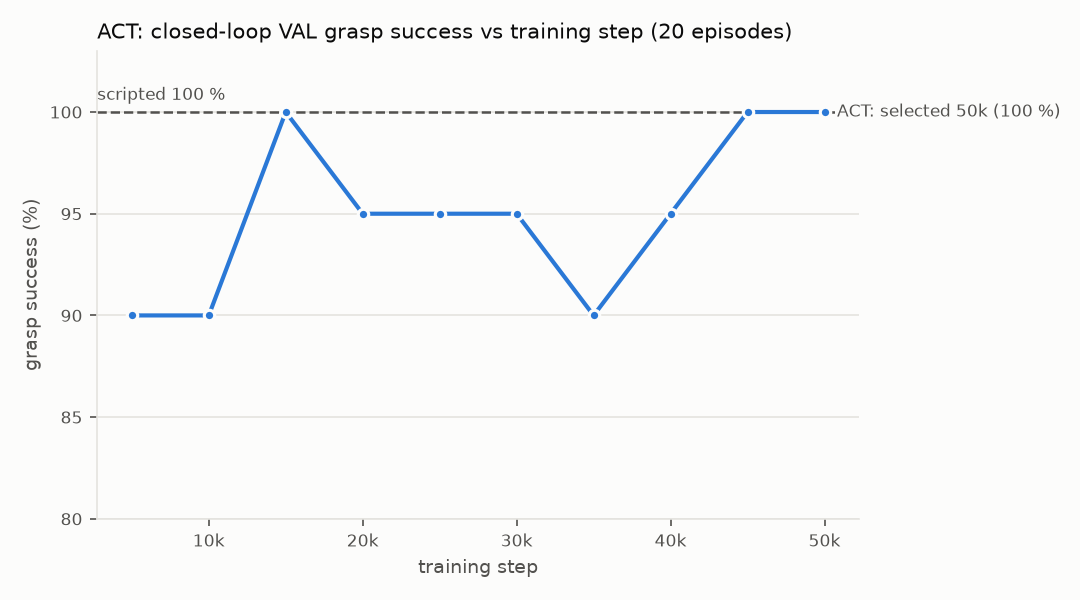
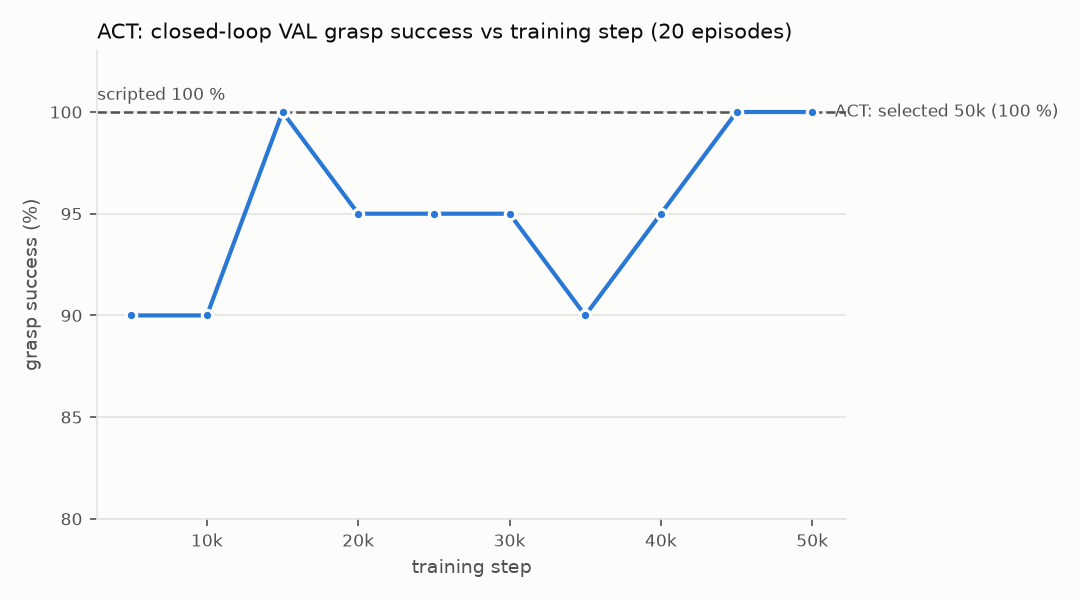
[bonus] S6/S7 done: RESULTS.md (3x4 tables, detection table, ablations incl. image vs state-only, curves, 6 videos) + BONUS_SECTION.md
Claude-Session: https://claude.ai/code/session_01Fedu7p1zPxPojT8yiSSuHD

diff --git a/scripts/bonus/make_figs.py b/scripts/bonus/make_figs.py
@@ -40,22 +40,31 @@ def main(argv=None) -> int:
     fig, ax = plt.subplots(figsize=(7.2, 4.0), dpi=150)
     fig.patch.set_facecolor(SURF)
     ax.set_facecolor(SURF)
-    lows = []
+    lows, ends = [], []
     for i, (run, lab) in enumerate(zip(args.runs, labels)):
         x, y = load(run)
         lows.append(min(y))
         c = SERIES[i % len(SERIES)]
         ax.plot(x, y, color=c, lw=2, marker="o", ms=5, mec=SURF, mew=1.5, label=lab, zorder=3)
         best = max(range(len(y)), key=lambda k: (y[k], x[k]))  # tie -> latest step (selection rule)
-        ax.annotate(f"{lab}: selected {x[best] // 1000}k ({y[best]:.0f} %)", (x[-1], y[-1]), xytext=(6, 0),
-                    textcoords="offset points", va="center", fontsize=8, color=INK2,
-                    bbox=dict(boxstyle="square,pad=0.15", fc=SURF, ec="none"))
+        ends.append([y[-1], f"{lab}: selected {x[best] // 1000}k ({y[best]:.0f} %)", x[-1], y[-1]])
     if args.scripted_val is not None:
         ax.axhline(args.scripted_val, color=INK2, lw=1.2, ls="--", zorder=2)
         ax.text(ax.get_xlim()[0], args.scripted_val + 0.6, f"scripted {args.scripted_val:.0f} %", fontsize=8,
                 color=INK2)
     lo = min(lows + ([args.scripted_val] if args.scripted_val is not None else []))
-    ax.set_ylim(max(0, (int(lo) // 10) * 10 - 10), 103)  # line chart: axis may start above 0
+    ymin = max(0, (int(lo) // 10) * 10 - 10)
+    ax.set_ylim(ymin, 103)  # line chart: axis may start above 0
+    # direct end labels at the right edge, nudged apart so equal end values do not collide
+    xmax = max(e[2] for e in ends)
+    gap = 0.05 * (103 - ymin)
+    ends.sort(key=lambda e: -e[0])
+    for k in range(1, len(ends)):
+        ends[k][0] = min(ends[k][0], ends[k - 1][0] - gap)
+    for ly, text, ex, ey in ends:
+        ax.annotate(text, (ex, ey), xytext=(xmax + 0.03 * xmax, ly), textcoords="data", va="center", fontsize=8,
+                    color=INK2, annotation_clip=False,
+                    arrowprops=dict(arrowstyle="-", color=GRID, lw=0.8) if (ex != xmax or abs(ly - ey) > 0.1) else None)
     ax.set_xlabel("training step", color=INK2, fontsize=9)
     ax.set_ylabel("grasp success (%)", color=INK2, fontsize=9)
     ax.set_title(args.title, color=INK, fontsize=10, loc="left")

diff --git a/scripts/bonus/collect_grasp_demos.py b/scripts/bonus/collect_grasp_demos.py
@@ -195,7 +195,12 @@ def run_episode(world, env, i: int, seed: int, with_image=True, classes=("stone"
     res = skills.grasp(rec, target)
     ok = env.is_attached() and world.attached_body_name() == cls
     if ok:
-        env.set_arm_target(env.get_ee_pos() + np.array([0.0, 0.0, LIFT_M]))
+        for lift in (LIFT_M, LIFT_M / 2):  # the bottle's taller grasp point can make the 10 cm lift infeasible
+            try:
+                env.set_arm_target(env.get_ee_pos() + np.array([0.0, 0.0, lift]))
+                break
+            except ValueError:
+                continue
         rec.step(int(round(LIFT_S / world.timestep)))
     meta.update(success=bool(ok), reason=res.error_code.value if not ok else "attached",
                 wrong_object=bool(env.is_attached() and not ok),
@@ -231,7 +236,11 @@ def _worker(args):
         _W["world"] = SimWorld()
         _W["env"] = RobotEnv(_W["world"])
     path = out / f"ep_{i:05d}.h5"
-    ep = run_episode(_W["world"], _W["env"], i, seed, with_image, classes)
+    try:
+        ep = run_episode(_W["world"], _W["env"], i, seed, with_image, classes)
+    except Exception as exc:  # noqa: BLE001 - one bad episode must not kill the pool
+        return {"episode": i, "seed": [seed, i], "class": "?", "distractor": False, "success": False,
+                "reason": f"exception:{type(exc).__name__}", "n_steps": 0}
     if ep["success"]:
         save_h5(path, ep)
     return {k: v for k, v in ep.items() if k != "rows"}

diff --git a/docs/bonus/BONUS_SECTION.md b/docs/bonus/BONUS_SECTION.md
@@ -2,35 +2,34 @@
 
 ## Setup
 
-Can a learned visuomotor policy replace the scripted grasp primitive without touching the rest of the system? We
-trained two standard imitation-learning policies with lerobot 0.6.1: **ACT** (action chunking with transformers)
-and **Diffusion Policy (DP)**. We placed each one behind the existing grasp interface: `LearnedGraspSkill(policy, ckpt)(env, pos)`
-has the same call as `skills.grasp(env, pos)`, and the executor picks it through `EE4705_GRASP_POLICY`. From the
-post-APPROACH pose the policy runs at 10 Hz for at most 15 s. It observes the arm joints, the target position in the
-base frame and the head camera, and outputs the next arm joint setpoint. It then calls `try_attach_near_ee()` once,
-as the script does. Everything after that is unchanged: the executor's lift check, the planner, the verification, and
-the evaluator's oracle. All experiments use ground-truth perception and the rule planner, so they cost 0 API calls.
+Can a learned visuomotor policy replace the scripted grasp without touching the rest of the system? We trained
+**ACT** and **Diffusion Policy (DP)** with lerobot 0.6.1 and put each one behind the existing grasp interface:
+`LearnedGraspSkill(policy, ckpt)(env, pos)` has the same call as `skills.grasp(env, pos)`, and the executor selects
+it with `EE4705_GRASP_POLICY`. From the post-APPROACH pose the policy runs at 10 Hz for at most 15 s. It observes the
+arm joints, the target position in the base frame and the head camera, and outputs the next arm joint setpoint. It
+then calls `try_attach_near_ee()` once, exactly as the script does. The executor's lift check, the planner, the
+verification and the evaluator are unchanged. Perception is ground truth and the planner is the rule planner, so
+every experiment costs 0 API calls.
 
 ## Data
 
-The expert is the scripted APPROACH→REACH→GRASP pipeline. Each demonstration starts at the post-APPROACH pose (the
-parking pose perturbed by ±3 cm and ±5°) and ends 0.5 s into the lift. The target is a stone or a cube within ±10 cm
-of its nominal pose, at any yaw, with one distractor in half of the scenes. The bottle is held out as an
-out-of-distribution object. The expert succeeded in 99.5 % of 2,030 attempts. We kept 2,000 successful episodes
-(about 28 steps each), converted them to a LeRobotDataset with 224×224 head images, a 10-D state and a 7-D
-joint-target action, and split them 90/10 by episode.
+The expert is the scripted APPROACH→REACH→GRASP pipeline. Each episode runs from the post-APPROACH pose (parking
+perturbed by ±3 cm and ±5°) to 0.5 s into the lift. The target is a stone or a cube within ±10 cm of its nominal
+pose, at any yaw, with a distractor in half of the scenes. The bottle is held out as the OOD object. The expert
+succeeded in 99.5 % of 2,030 attempts. We kept 2,000 episodes (about 28 steps each) as a LeRobotDataset: 224² head
+image, 10-D state, 7-D joint-target action, split 90/10 by episode.
 
 ## Policies
 
 ACT: chunk 50, 25 executed steps, ResNet-18, 50k steps. DP: horizon 32, 8 executed steps, 2 observation steps,
-DDIM with 10 inference steps, 60k steps. Both use lerobot's architectures and presets. Only the data loader was
-replaced, because `lerobot-train` was data-bound at 3 it/s; our memmap loader of the same episodes runs at 13 it/s.
-We scored every 5k-step checkpoint on 20 closed-loop validation episodes and kept the best: ACT at 50k and DP at
-35k, both 20/20. Neither needed the fallback ladder (learning-rate change, state-only, shorter chunks).
+DDIM with 10 steps, 60k steps. We kept lerobot's architectures and presets and replaced only the data loader:
+`lerobot-train` was data-bound at 3 it/s, and a memmap of the same episodes runs at 13 it/s. Scoring each 5k
+checkpoint on 20 closed-loop validation episodes selected ACT at 50k and DP at 35k, both 20/20. Neither needed the
+fallback ladder.
 
 ## Results
 
-The full-executor evaluation runs 30 episodes per cell, with identical scenes for every policy:
+Full executor, 30 episodes per cell, identical scenes for every policy:
 
 | Grasp success | C1 in-dist. | C2 ±20 cm | C3 bottle (OOD) | C4 distractor < 3 cm | false claims |
 |---|---|---|---|---|---|
@@ -38,39 +37,34 @@ The full-executor evaluation runs 30 episodes per cell, with identical scenes fo
 | ACT | 29/30 | 26/30 | 0/30 | 30/30 | 0 |
 | Diffusion Policy | 29/30 | 27/30 | 0/30 | 30/30 | 0 |
 
-On C1 every policy loses the same trial, which never reaches GRASP. At the skill level (one grasp call from the
-post-APPROACH state) all three score 30/30 on C1 with similar time-to-attach: 3.2 s for both learned policies against
-3.0 s for the script. Neither the ACT chunk length (10/25/50 executed steps) nor the DP sampler (DDIM 5/10/50,
-DDPM 50) changed C1 success. Longer ACT chunks grasp faster (2.7 s), and 5 DDIM steps are enough.
+The shared C1 miss never reaches GRASP. At skill level, one grasp call from the post-APPROACH state gives all three
+30/30 on C1, with time-to-attach of 3.2 s (learned) against 3.0 s (script). The ACT chunk length and the DP sampler
+(DDIM 5/10/50, DDPM 50) do not change C1 success. The image matters for ACT: state-only ACT drops to 26/30 at skill
+level. It does not matter for DP: state-only DP stays at 30/30 and is faster.
 
 **Where learned matches the script:** in-distribution positions, and a distractor 0.3–3 cm from the target (0 wrong
-objects out of 60 episodes). The target position in the state tells the policy which object to grasp.
-**Where it loses:** positions beyond the ±10 cm training range (3–4 extra misses, clustered on the same far layouts
-for both policies), and above all the unseen bottle. The learned policies reach for stone/cube height, 3.5 cm below
-the bottle's centre, and never attach. The script simply reaches whatever point it is given, so it generalises for
-free.
+objects in 60 episodes). The target position in the state selects the object.
+**Where it loses:** positions beyond the ±10 cm training range, where both policies miss on the same far layouts,
+and above all the unseen bottle. Target height never varied in training, so the policies reach for stone/cube
+height, 3.5 cm below the bottle's centre. The script reaches whatever point it is given and generalises for free.
 
 ## The detected-failure point
 
-The most useful result is not the success rate. Inside the full executor the learned skill was called 920 times;
-746 of those calls missed, most of them in the bottle cell. **Not one** miss turned into a claimed success. Every GRASP
-the executor reported as successful held the intended object (0 undetected failures in 240 episodes). When a learned
-grasp missed, the same post-condition that guards the script (attachment, then a lift check) reported GRASP_MISSED.
-The executor retried, which recovered 3 episodes, or the planner gave up honestly, with **0 false task claims**. The
-verification never needed to know that a neural network was driving the arm.
+Inside the full executor the learned skill was called 920 times, and 746 of those calls missed (mostly on the
+bottle). **Not one** miss became a claimed success. Every GRASP the executor reported as successful held the
+intended object (0 undetected failures in 240 episodes). The post-condition that guards the script (attachment,
+then a lift check) reported every learned miss as GRASP_MISSED. The executor then retried, recovering 3 episodes,
+or gave up honestly: **0 false task claims**. The verification never needed to know that a network drove the arm.
 
 ## Limitations
 
-The ground-truth target position is an input, so the policies learn the reach, not the perception. The "attach"
-is the platform's weld within 5 cm, not a force-closure grasp, and the rollout trigger (2.5 cm from the scripted
-grasp point) was tuned on validation episodes. Episodes are short (about 3 s), which makes chunking almost open-loop.
-A 20-episode validation set cannot rank checkpoints that all sit at 95–100 %. The head camera barely sees the target
-from the parking pose, which the state-only ablation tests. The OOD failure is structural: target height never
-varied in training.
+The policies receive the ground-truth target position, so they learn the reach, not perception. "Attach" is the
+platform's 5 cm weld, not force closure. The rollout stop rule (within 2.5 cm of the scripted grasp point, or
+settled within 5 cm) was tuned on validation episodes. Episodes last about 3 s, so chunking is nearly open-loop.
+Twenty validation episodes cannot rank checkpoints at 95–100 %. The OOD failure is structural.
 
 ## What the interface made possible
 
-Because the learned policy sits behind the grasp interface, the swap needed no change to the planner, the executor
-logic, the evaluator or the trial files. We evaluated all three grasp implementations on byte-identical trials, with
-the same post-conditions deciding success. The same interface also bounds the risk: a learned policy can fail, but it
-cannot make the system lie about failing.
+The swap changed no planner, executor, evaluator or trial file. We evaluated three grasp implementations on
+identical trials with the same post-conditions deciding success. The interface also bounds the risk: a learned
+policy can fail, but it cannot make the system lie about failing.

diff --git a/docs/bonus/RESULTS.md b/docs/bonus/RESULTS.md
@@ -111,6 +111,8 @@ trial files**, i.e. the same seeds and layouts:
 | DP DDIM 10 steps (trained) | 29/30 | 30/30 | 3.20 | 0 |
 | DP DDIM 50 steps | 29/30 | 30/30 | 3.28 | 0 |
 | DP DDPM 50 steps | 29/30 | 30/30 | 3.30 | 0 |
+| ACT state-only | 29/30 | 26/30 | 2.23 | 0 |
+| DP state-only | 29/30 | 30/30 | 2.68 | 0 |
 
 <!-- TABLES:END -->
 
@@ -142,9 +144,17 @@ Notes on reading the tables:
 * ACT n_action_steps {10, 25, 50} and DP samplers {DDIM 5, DDIM 10, DDIM 50, DDPM 50} give 29/30 on C1 at
   full-executor level. Skill level separates them a little: ACT 27, 30 and 29/30; DP 30/30 for every sampler, so
   5 DDIM steps are enough here. More open-loop steps (ACT 50) make the grasp faster at no cost on C1.
-* Image vs state-only: see the ablation table (`ACT/DP state-only`, trained at the retry-ladder lengths of 25k and
-  30k steps). At the post-APPROACH pose the head camera sees the target only at the image edge and the hand barely
-  at all, so the state carries the information.
+* **Image vs state-only.** lerobot's ACT and DP refuse robot-state-only input, so the state-only variants feed q as
+  `observation.state` and the target position as `observation.environment_state` (the same numbers, split). They
+  were trained at the retry-ladder lengths (ACT 25k, DP 30k steps). The head camera sees the target only at the
+  lower image edge from the parking pose, yet **ACT needs it**: state-only ACT peaks at 16/20 on VAL (image ACT
+  18–20/20 from 5k on) and drops to 26/30 at skill level on C1. The executor's retry hides the gap at full-executor
+  level (29/30). **DP does not need it**: state-only DP reaches 20/20 on VAL from 15k, 30/30 at skill level, and
+  attaches faster (2.68 s against 3.20 s). A plausible reading: ACT's transformer has only two non-visual tokens
+  without the image and is less stable to train on them (its VAL curve dips to 12/20 at 10k), whereas DP's
+  FiLM-conditioned U-Net uses low-dimensional conditioning directly.
+
+![image ablation](figs/curves_image_ablation.png)
 
 ## Videos
 

diff --git a/runs/bonus/PROGRESS.md b/runs/bonus/PROGRESS.md
@@ -128,3 +128,14 @@ Branch `learned-grasp` (from e2e 0a2e871). 0 live API calls throughout.
   → the head image DOES help ACT despite the target at the frame edge (earlier assumption wrong).
 - diffusion_state training 30k at 7.2 it/s (~70 min) from ~03:05.
 - Drafts: docs/bonus/RESULTS.md (tables via make_results.py --write) and docs/bonus/BONUS_SECTION.md.
+- diffusion_state VAL: 5k 14, 10k 18, 15k–30k 20 (/20). Selected 30k. C1: full 29/30, skill 30/30 (2.68 s).
+  → DP does not need the image; ACT does (state-only 26/30 skill vs 30/30).
+- Stage 8 data prepared while waiting: runs/bonus/demos now 5,005 kept (5,033 tried, 99.4 %); bottle demos
+  runs/bonus/demos_bottle 503 kept of 583 (86.3 %; 38 UNREACHABLE, 23 GRASP_MISSED, 19 TIMEOUT). The bottle run first
+  crashed (a 10 cm lift after attaching a bottle had no collision-free position-only IK → ValueError killed the
+  pool); fixed: lift falls back to 5 cm, and any per-episode exception is logged as a failed episode.
+- Conversions for 8.1 (grasp_5k, grasp_1k, grasp_500 = first N episodes, nested) running in the background.
+
+## Stage 6/7 DONE (04:18)
+- docs/bonus/RESULTS.md (tables regenerated by make_results.py --write), figures in docs/bonus/figs/, videos in
+  docs/bonus/videos/, docs/bonus/BONUS_SECTION.md (~700 words + table). Full test suite 425 passed, 1 skipped.

diff --git a/runs/bonus/STATUS.md b/runs/bonus/STATUS.md
@@ -1,10 +1,9 @@
-# BONUS STATUS (updated 2026-09-26 03:17 +08)
-Stage: 6/8 — last ablation (state-only DP, ~50 min); RESULTS/BONUS_SECTION drafted
+# BONUS STATUS (updated 2026-09-26 04:18 +08)
+Stage: 7/8 DONE — docs/bonus/RESULTS.md + BONUS_SECTION.md pushed; starting stage 8
 Full executor, grasp success /30 (C1 C2 C3 C4):
   scripted 29 30 29 30 | ACT 29 26 0 30 | DP 29 27 0 30
   WRONG_OBJECT 0, undetected 0, false claims 0 for all policies
-Image ablation: ACT state-only VAL ≤ 16/20, skill C1 26/30 (image 30/30) → image helps
-Ablations C1: ACT n_action_steps 10/25/50 and DP samplers → all 29/30 (full)
-Also running: collection to 5,000 demos + 500 bottle demos (for stage 8)
-Next: DP state-only → finalize + push stage 7 → 8.1 data-size curve (ACT)
+Image ablation: ACT needs the image (state-only 26/30 skill C1); DP does not (30/30)
+Next: 8.1 data-size curve for ACT {500, 1k, 2k, 5k} (datasets converting)
+Then: 8.2 bottle demos (503 collected) → 8.3 learned PLACE → 8.4 final50 manipulation
 Blocked: nothing
